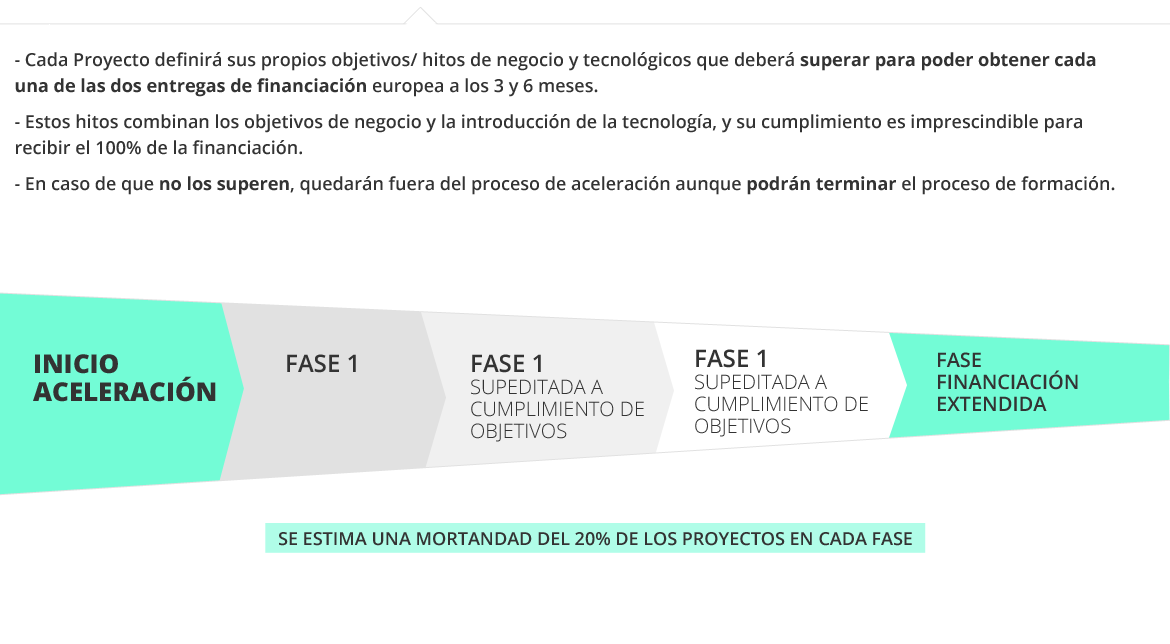
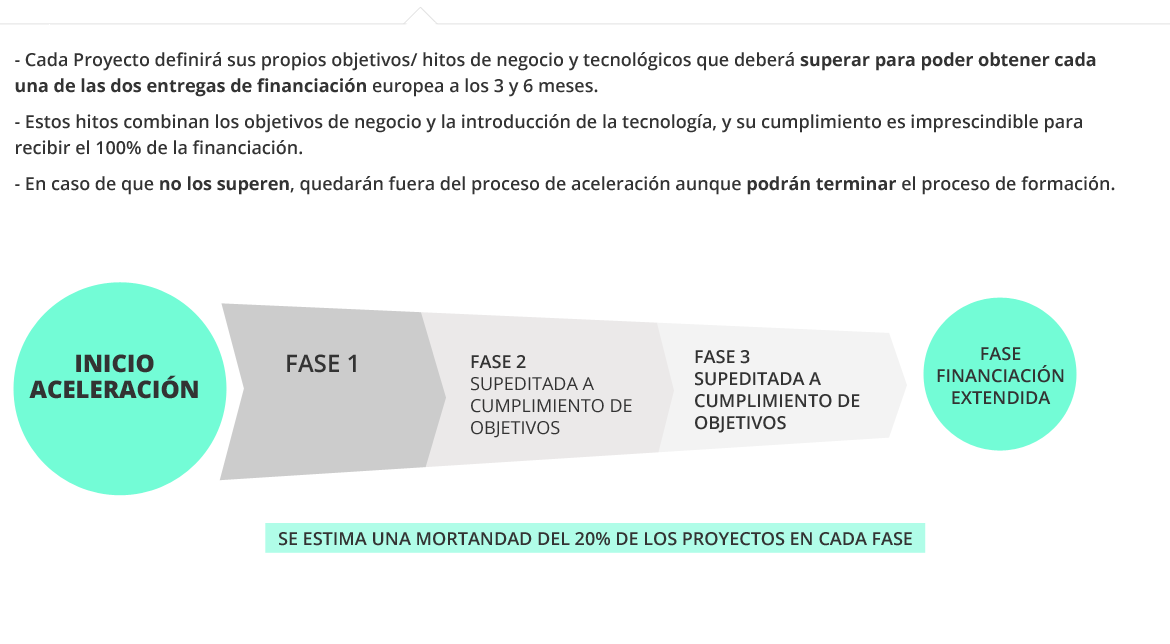
Ajustadas las ultimas diapos

diff --git a/_includes/04.how-it-works.html b/_includes/04.how-it-works.html
@@ -30,7 +30,7 @@
 
 						<div class="tab-content" id="tab-2">
 							<figure>
-								<img src="/img/diapos/diapositiva.11.png" class="img-responsive" alt="Diapositiva">
+								<img src="/img/diapos/diapositiva.seleccion.png" class="img-responsive" alt="Diapositiva">
 							</figure>
 						</div>
 
